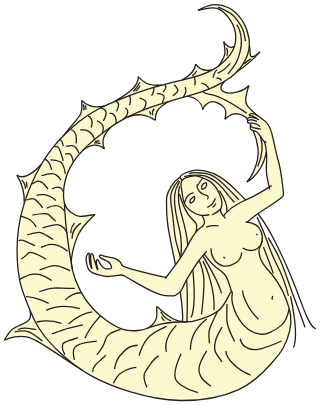
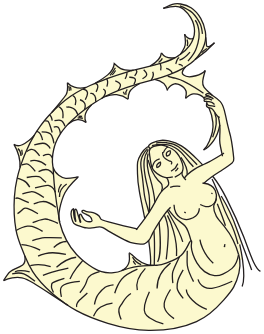
Map: show sea creatures at full size in the default view
The default view sits near zoom 13.4, not 14.5, so the drawings were
being shrunk to about 80%; size them for that zoom so they show at
100% (about 15% larger than before, and crisper). Version the PNG
URLs so browsers fetch re-rendered drawings instead of cached ones.

Claude-Session: https://claude.ai/code/session_01TCKi7BQocjxvrpHTNJCHpv

diff --git a/map.js b/map.js
@@ -162,10 +162,13 @@
 
   // The drawings are pre-rendered PNGs (images/sea/*.png, from her
   // SVGs), cropped to the art and drawn at twice the size they appear
-  // in the default "3 Sisters" view (about zoom 14.5), so the map
+  // in the default "3 Sisters" view (about zoom 13.4), so the map
   // barely resamples them and her fine lines stay crisp.
+  // Bump SEA_VERSION whenever the PNGs are re-rendered, so browsers
+  // don't keep showing cached copies.
+  const SEA_VERSION = 2;
   async function loadCreature(id) {
-    const res = await map.loadImage('images/sea/' + id + '.png');
+    const res = await map.loadImage('images/sea/' + id + '.png?v=' + SEA_VERSION);
     return res.data;
   }
 
@@ -191,7 +194,7 @@
       minzoom: 11,
       layout: {
         'icon-image': ['get', 'id'],
-        'icon-size': ['interpolate', ['linear'], ['zoom'], 11, 0.4, 14.5, 1, 16, 1.3],
+        'icon-size': ['interpolate', ['linear'], ['zoom'], 11, 0.5, 13.4, 1, 16, 1.5],
         'icon-allow-overlap': true,
         'icon-ignore-placement': true
       }

diff --git a/map.html b/map.html
@@ -31,6 +31,6 @@
   </main>
 
   <script src="https://cdnjs.cloudflare.com/ajax/libs/maplibre-gl/4.7.1/maplibre-gl.min.js"></script>
-  <script src="map.js?v=14"></script>
+  <script src="map.js?v=15"></script>
 </body>
 </html>
